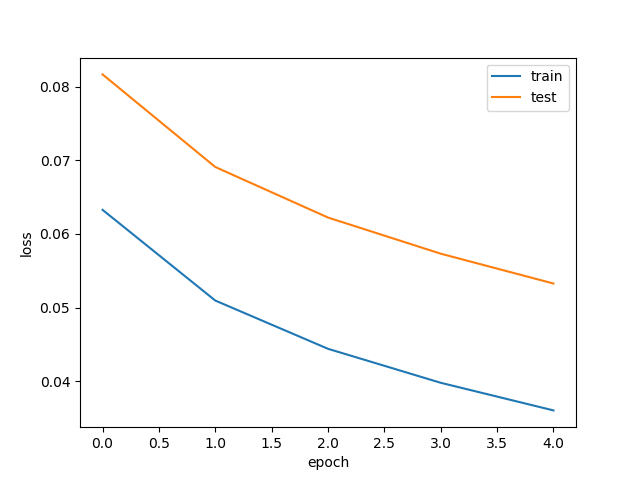
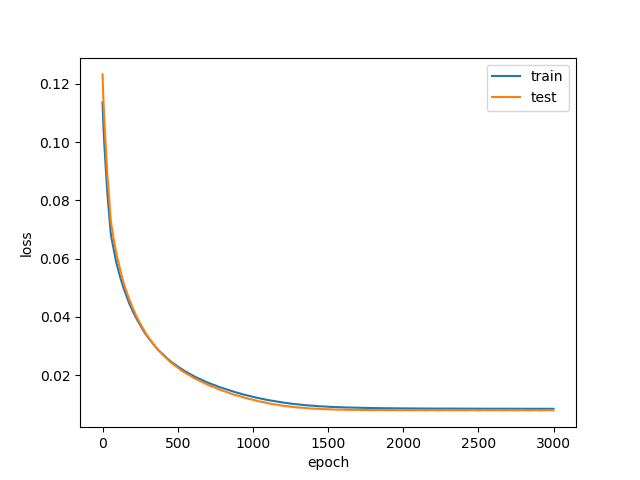
working batch looper?

diff --git a/channel_geom_nn.py b/channel_geom_nn.py
@@ -30,6 +30,14 @@ y_train = scaler.fit_transform(df_train[['Bbf.m', 'Hbf.m']].values)
 X_test = scaler.fit_transform(df_test.drop(['Bbf.m', 'Hbf.m'], axis=1).values)
 y_test = scaler.fit_transform(df_test[['Bbf.m', 'Hbf.m']].values)
 
+batch_size = 5
+ds_train = tf.data.Dataset.from_tensor_slices((X_train, y_train)).repeat().batch(batch_size)
+it_train = ds_train.make_one_shot_iterator()
+xs, ys = it_train.get_next()
+
+# print('output_types: ', ds_train.output_types)
+# print('output_shap: ', ds_train.output_shapes)
+
 
 def denormalize(df, norm_data):
     """
@@ -51,50 +59,53 @@ def neural_net_model(X_data, input_dim):
     Weights and biases are abberviated as W_1,W_2 and b_1, b_2 
     These are variables with will be updated during training.
     """
-    n_nodes = 3
+    n_nodes = 4
+
+    # print('X_data: ', X_data)
 
     # layer 1 multiplying and adding bias then activation function
-    W_1 = tf.Variable(tf.random_uniform([input_dim, n_nodes]))
-    b_1 = tf.Variable(tf.zeros([n_nodes]))
+    W_1 = tf.Variable(tf.random_uniform([input_dim, n_nodes], dtype='float64'))
+    b_1 = tf.Variable(tf.zeros([n_nodes], dtype = 'float64'))
     layer_1 = tf.add(tf.matmul(X_data, W_1), b_1)
-    layer_1 = tf.nn.relu(layer_1)
+    # layer_1 = tf.nn.relu(layer_1)
     # layer_1 = tf.nn.softmax(layer_1)
+    layer_1 = tf.nn.leaky_relu(layer_1, alpha = 1)
 
 
     # layer 2 multiplying and adding bias then activation function    
-    # W_2 = tf.Variable(tf.random_uniform([n_nodes, n_nodes]))
-    # b_2 = tf.Variable(tf.zeros([n_nodes2]))
+    # W_2 = tf.Variable(tf.random_uniform([n_nodes, n_nodes], dtype='float64'))
+    # b_2 = tf.Variable(tf.zeros([n_nodes], dtype = 'float64'))
     # layer_2 = tf.add(tf.matmul(layer_1, W_2), b_2)
     # layer_2 = tf.nn.relu(layer_2)
 
     # output layer multiplying and adding bias then activation function
-    W_O = tf.Variable(tf.random_uniform([n_nodes, 2])) # 2 because there are two outputs
-    b_O = tf.Variable(tf.zeros([2]))
+    W_O = tf.Variable(tf.random_uniform([n_nodes, 2], dtype = 'float64')) # 2 because there are two outputs
+    b_O = tf.Variable(tf.zeros([2], dtype = 'float64'))
     output = tf.add(tf.matmul(layer_1, W_O), b_O)
     # output = tf.pow(tf.matmul(layer_1, W_O), b_O)
 
     return output, W_O
 
 
-xs = tf.placeholder("float", [None, X_train.shape[1]], name='x')
-ys = tf.placeholder("float", [None, y_train.shape[1]], name='y')
+# xs = tf.placeholder("float", [None, X_train.shape[1]], name='x')
+# ys = tf.placeholder("float", [None, y_train.shape[1]], name='y')
 
 # the model
 output, W_O = neural_net_model(xs, X_train.shape[1])
 
 # our mean squared error cost function
 # loss = tf.reduce_sum(tf.square(output - ys))
-loss = tf.reduce_mean(tf.square(output - ys))
-# loss = tf.losses.mean_squared_error(output, y)
+# loss = tf.reduce_mean(tf.square(output - ys))
+loss = tf.losses.mean_squared_error(output, ys)
 
 # Gradinent Descent optimiztion just discussed above for updating weights and biases
 learning_rate = 0.001
-train = tf.train.GradientDescentOptimizer(learning_rate).minimize(loss)
-# train = tf.train.AdamOptimizer(learning_rate).minimize(loss)
+# train = tf.train.GradientDescentOptimizer(learning_rate).minimize(loss)
+train = tf.train.AdamOptimizer(learning_rate).minimize(loss)
 
 # some other initializations
-correct_pred = tf.argmax(output, 1)
-accuracy = tf.reduce_mean(tf.cast(correct_pred, tf.float32))
+# correct_pred = tf.argmax(output, 1)
+# accuracy = tf.reduce_mean(tf.cast(correct_pred, tf.float32))
 
 c_train = []
 c_test = []
@@ -110,16 +121,15 @@ with tf.Session() as sess:
 
     # batcher = tf.train.batch(, batch_size=10, allow_smaller_final_batch = True)
 
-    for i in range(5):
-        for j in range(X_train.shape[0]):
+    for i in range(3000):
+        # for j in range(X_train.shape[0]):
             # Run loss and train with each sample (1 sample per batch)
-            sess.run([loss, train], feed_dict = {xs:X_train[j,:].reshape(1, X_train.shape[1]), 
-                                                 ys:y_train[j,:].reshape(1, y_train.shape[1])})
+            # sess.run([loss, train], feed_dict = {xs:X_train[j,:].reshape(1, X_train.shape[1]), 
+            #                                      ys:y_train[j,:].reshape(1, y_train.shape[1])})
 
             # Run loss and train with each sample (10 samples per batch)
             # batch_x, batch_y = batcher.next_batch(batch_size)
-            # sess.run([loss, train], feed_dict = {xs:batch_x.reshape(1, X_train.shape[1]), 
-            #                                      ys:batch_y.reshape(1, y_train.shape[1])})
+        sess.run([loss, train])
 
         # keep track of the loss
         c_train.append(sess.run(loss, feed_dict = {xs:X_train, ys:y_train}))
